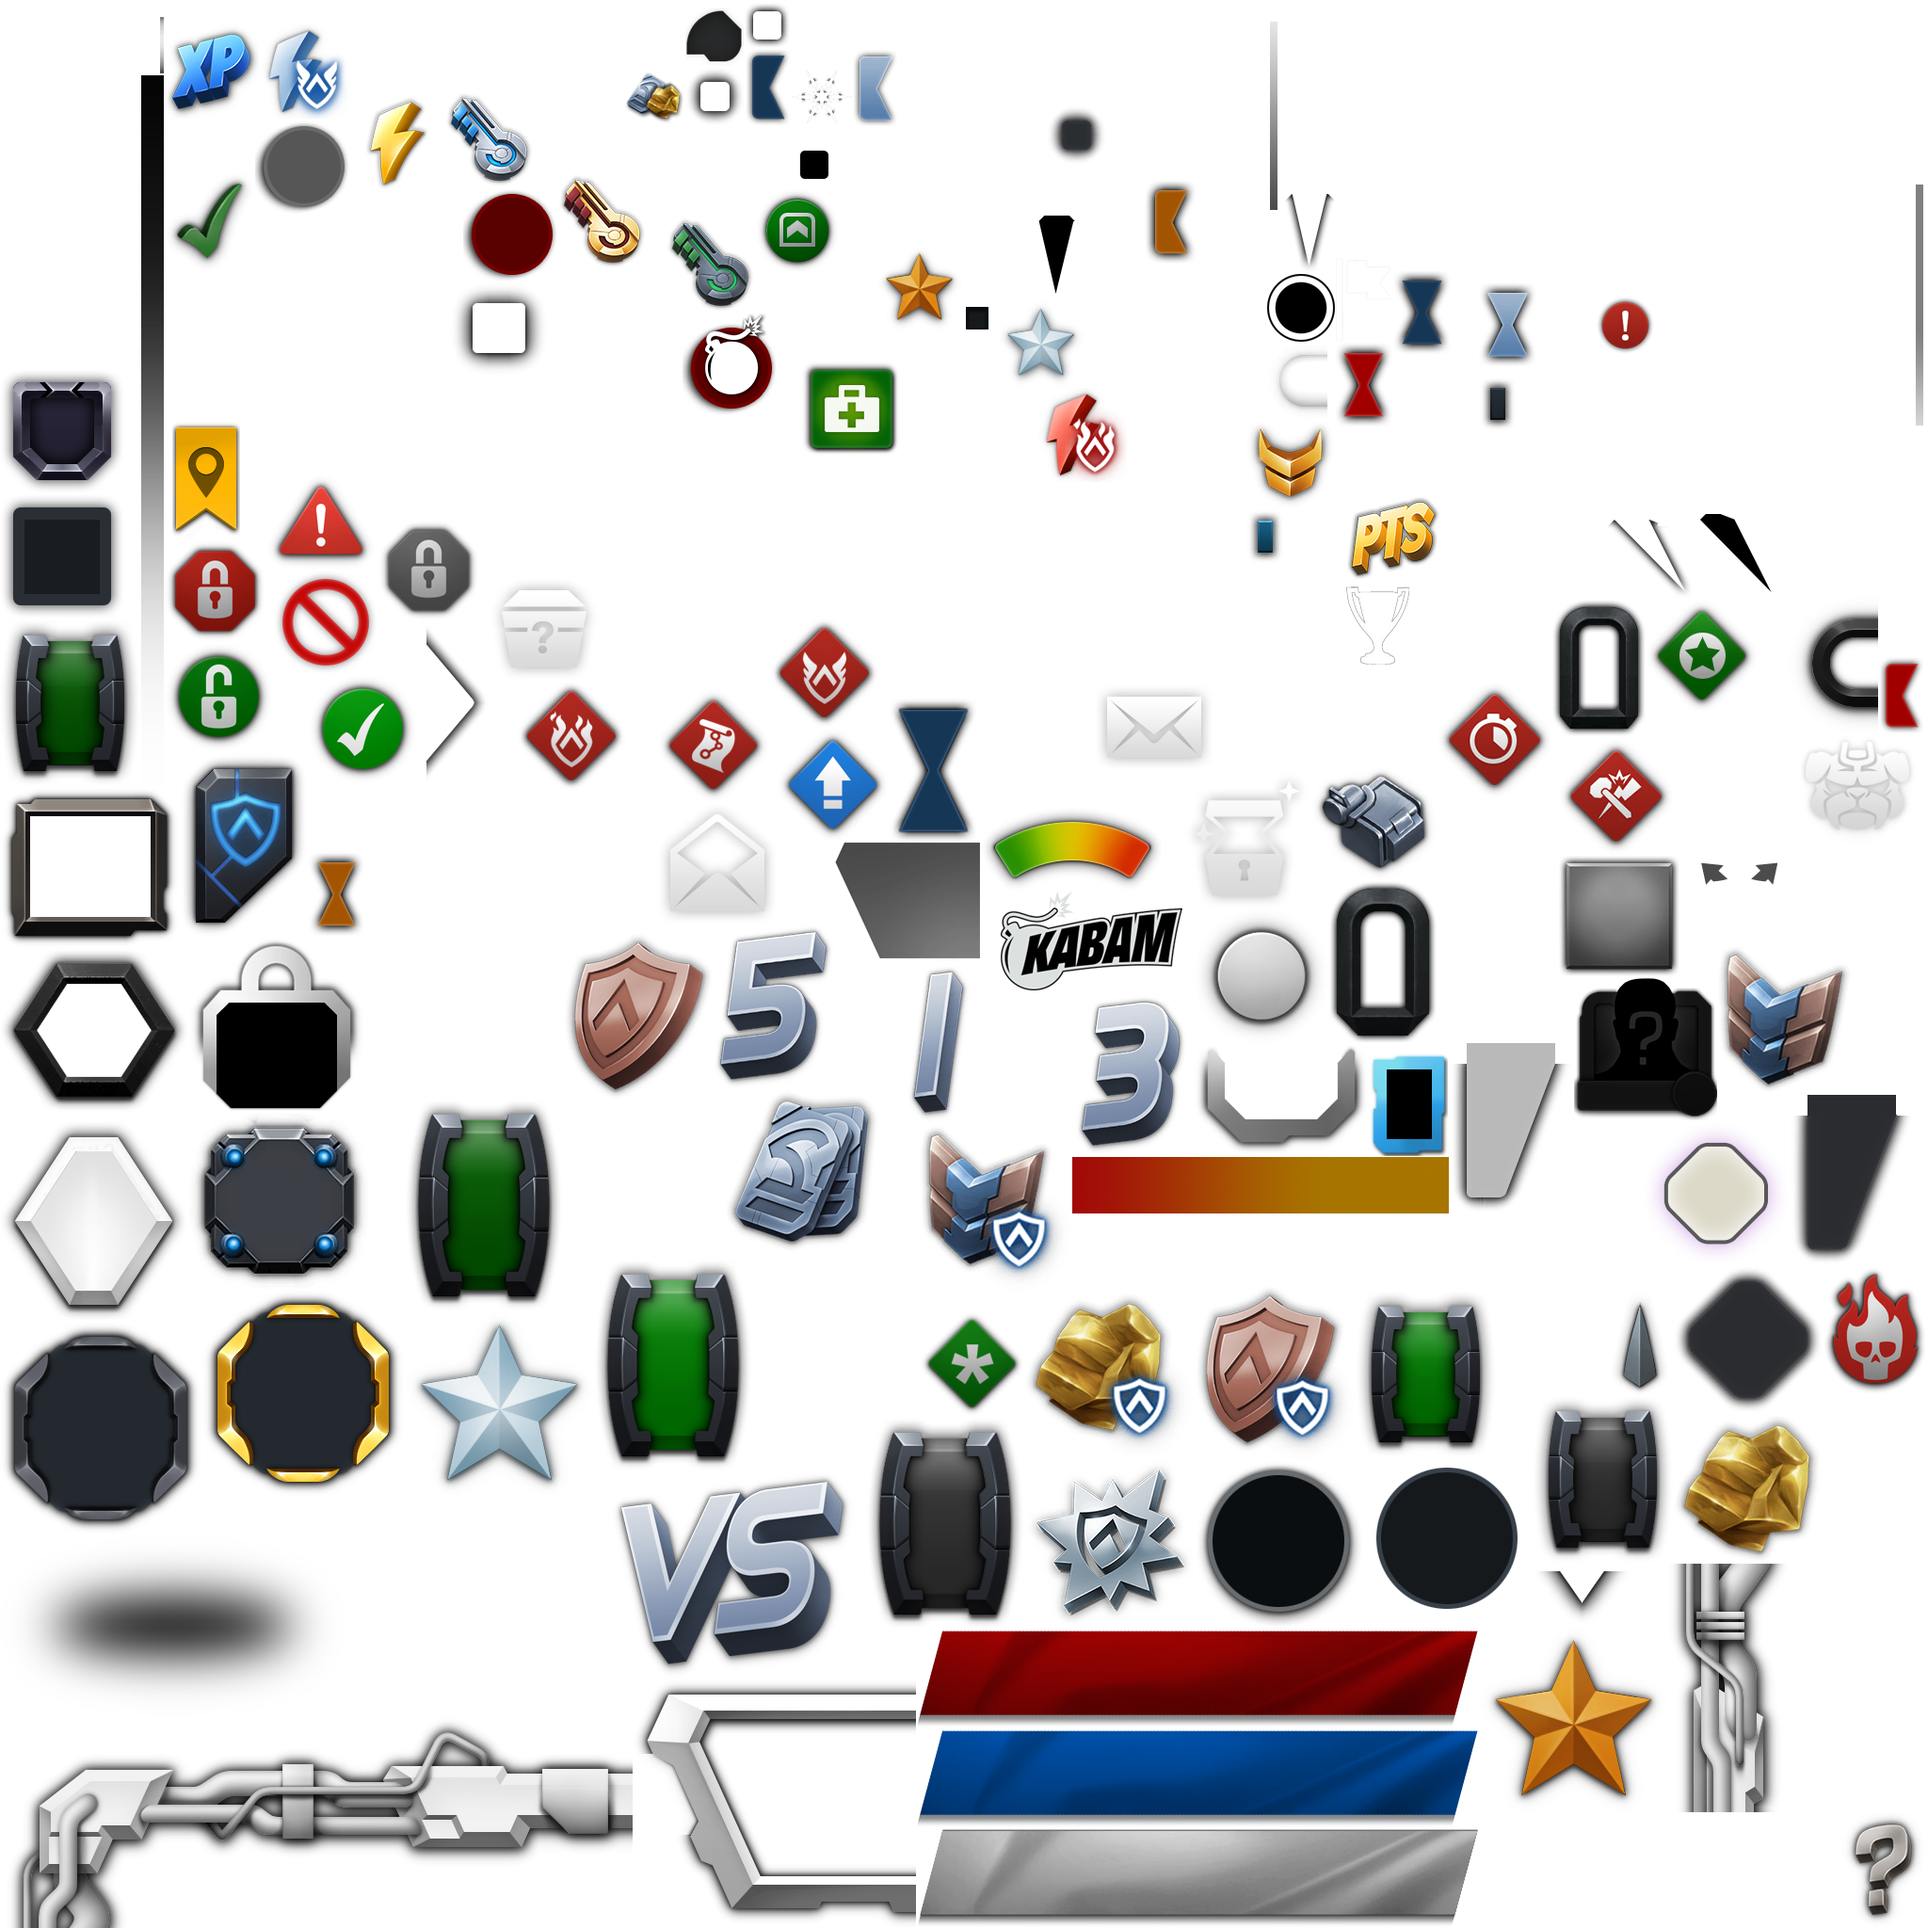
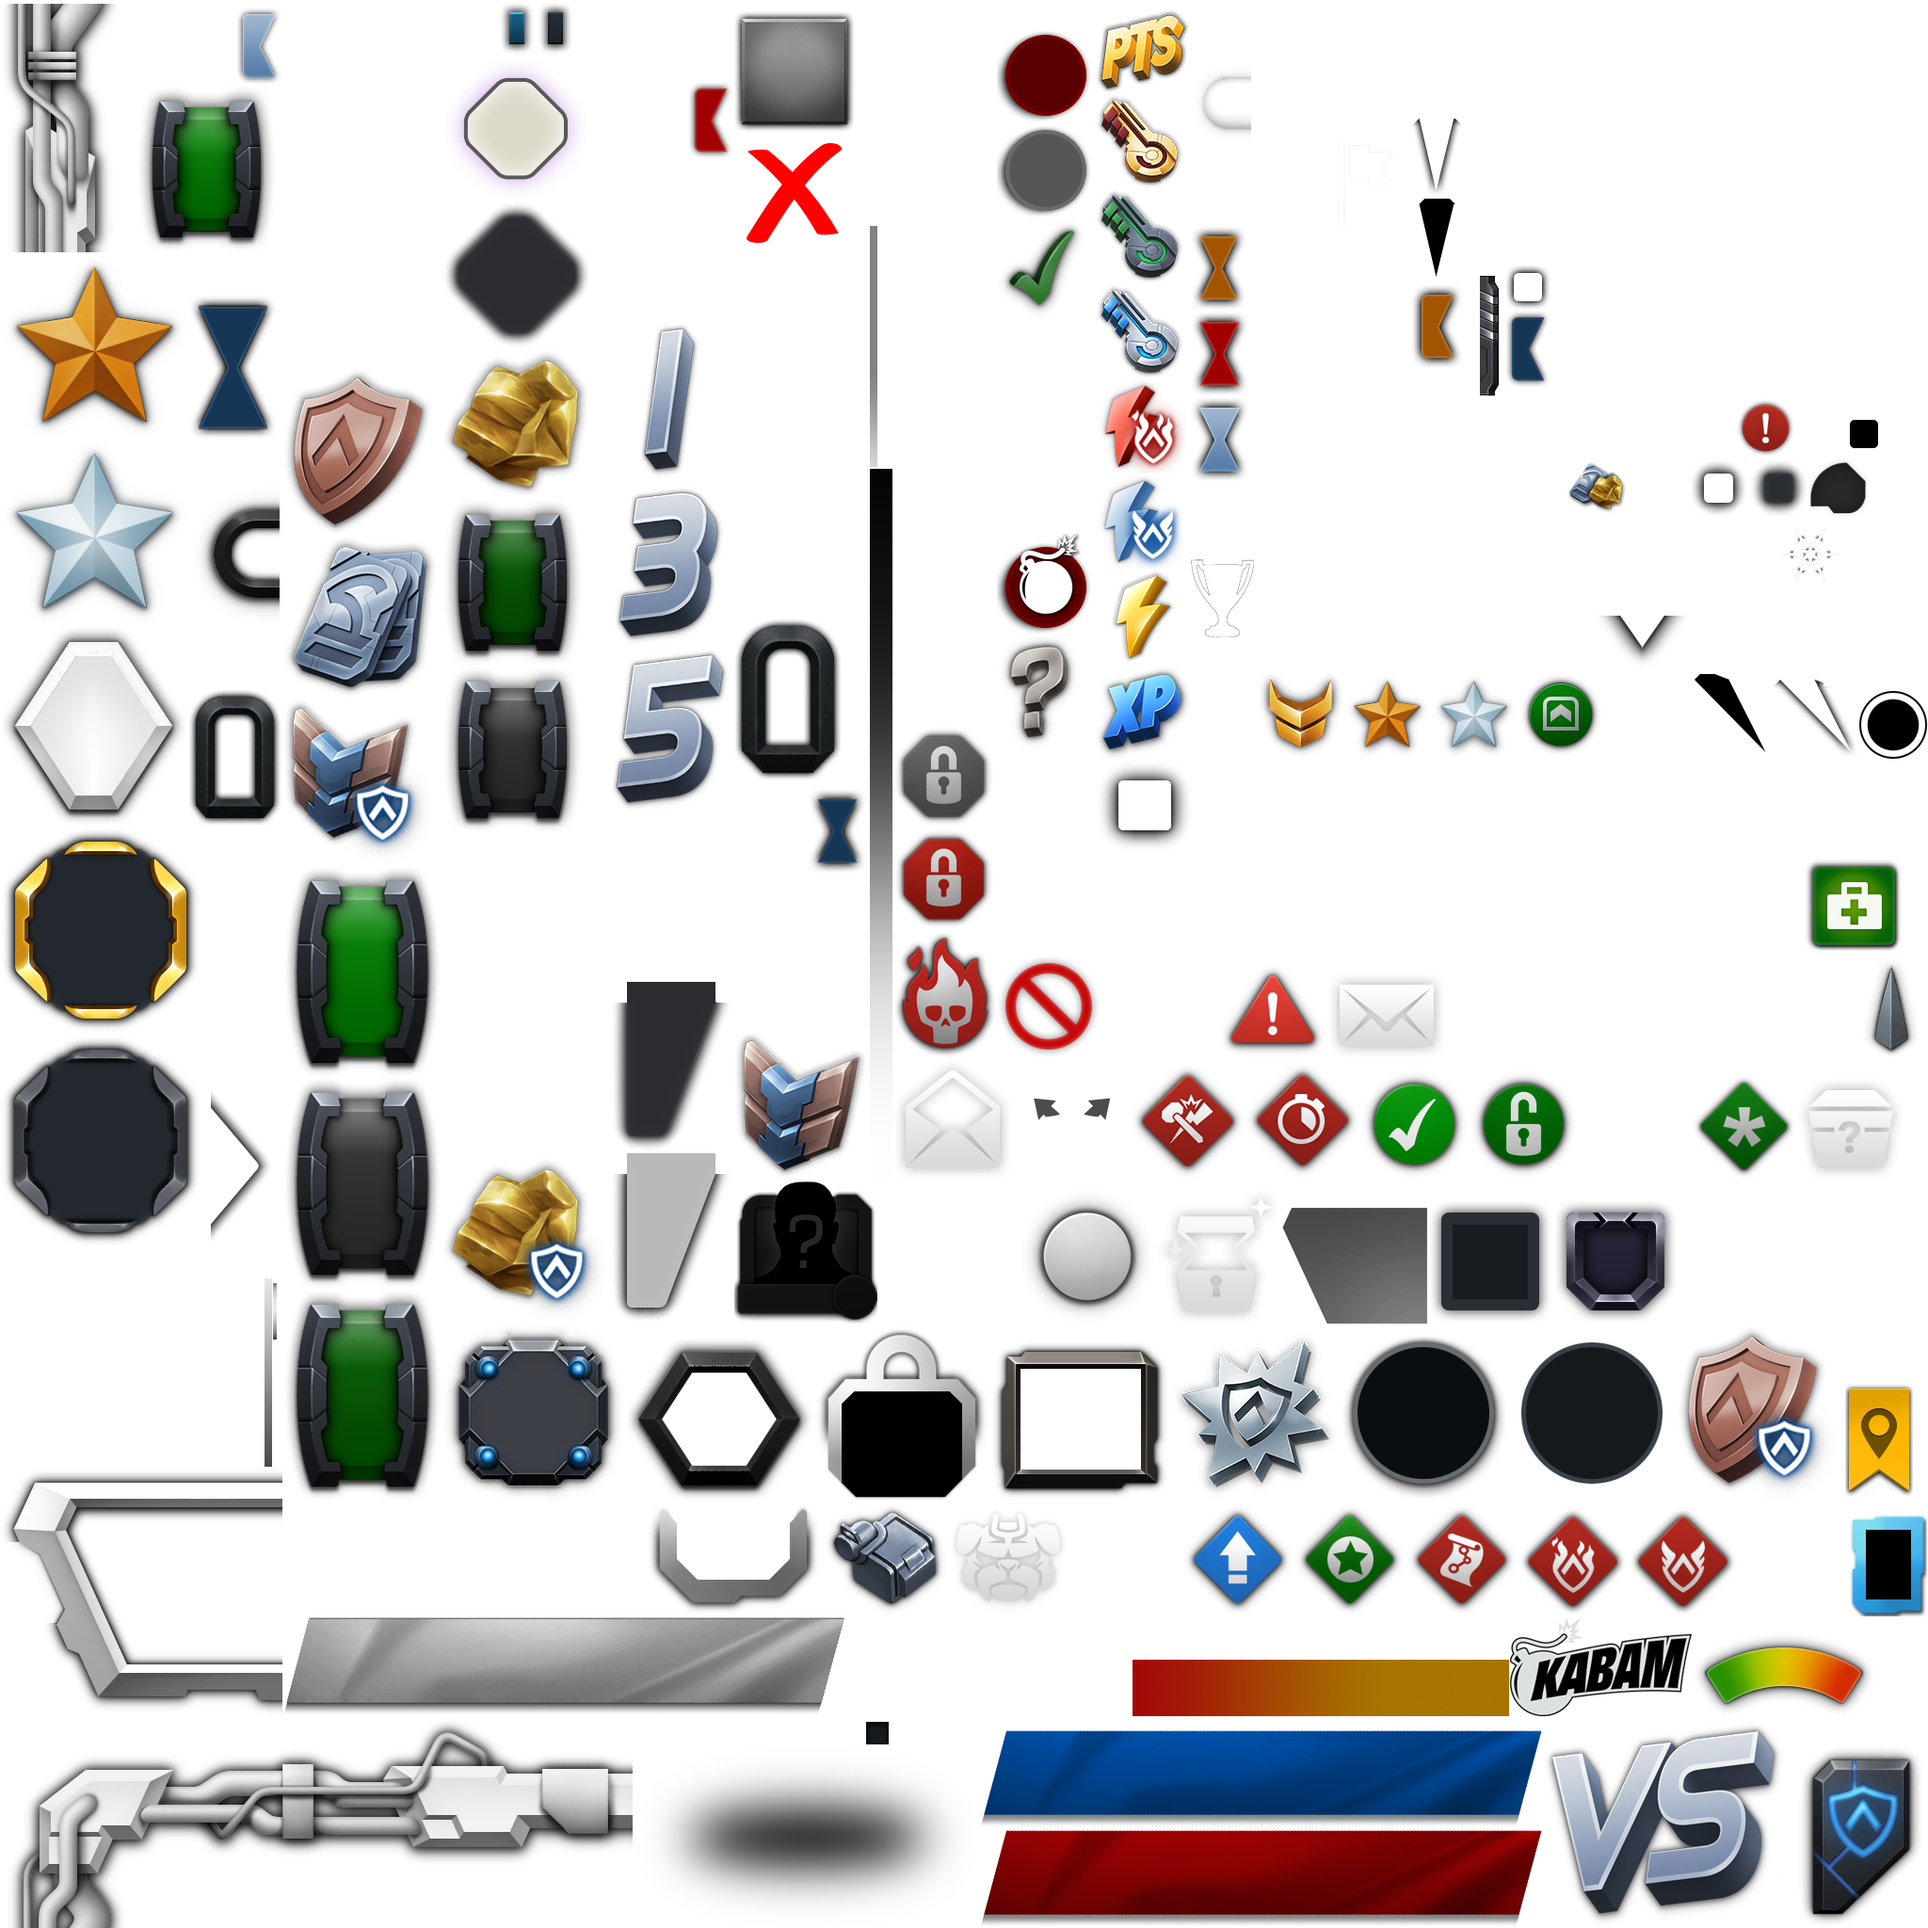
New assets and enable red hulk

diff --git a/src/data/synergies.js b/src/data/synergies.js
@@ -473,6 +473,24 @@ const synergies = [
     { fromId: 'rhino', fromStars: 5, toId: 'abomination', effectId: 'armor', effectAmount: 6 },
     { fromId: 'rhino', fromStars: 5, toId: 'electro', effectId: 'perfectblock', effectAmount: 5 },
 
+    { fromId: 'redhulk', fromStars: 3, toId: 'abomination', effectId: 'critrate', effectAmount: 6 },
+    { fromId: 'redhulk', fromStars: 3, toId: 'hulk', effectId: 'attack', effectAmount: 4 },
+    { fromId: 'redhulk', fromStars: 3, toId: 'x23', effectId: 'perfectblock', effectAmount: 4 },
+    { fromId: 'redhulk', fromStars: 3, toId: 'elektra', effectId: 'thunderbolts', effectAmount: 10 },
+    { fromId: 'redhulk', fromStars: 3, toId: 'agentvenom', effectId: 'thunderbolts', effectAmount: 10 },
+
+    { fromId: 'redhulk', fromStars: 4, toId: 'abomination', effectId: 'critrate', effectAmount: 7 },
+    { fromId: 'redhulk', fromStars: 4, toId: 'hulk', effectId: 'attack', effectAmount: 5 },
+    { fromId: 'redhulk', fromStars: 4, toId: 'x23', effectId: 'perfectblock', effectAmount: 5 },
+    { fromId: 'redhulk', fromStars: 4, toId: 'elektra', effectId: 'thunderbolts', effectAmount: 10 },
+    { fromId: 'redhulk', fromStars: 4, toId: 'agentvenom', effectId: 'thunderbolts', effectAmount: 10 },
+
+    { fromId: 'redhulk', fromStars: 5, toId: 'abomination', effectId: 'critrate', effectAmount: 7 },
+    { fromId: 'redhulk', fromStars: 5, toId: 'hulk', effectId: 'attack', effectAmount: 5 },
+    { fromId: 'redhulk', fromStars: 5, toId: 'x23', effectId: 'perfectblock', effectAmount: 5 },
+    { fromId: 'redhulk', fromStars: 5, toId: 'elektra', effectId: 'thunderbolts', effectAmount: 10 },
+    { fromId: 'redhulk', fromStars: 5, toId: 'agentvenom', effectId: 'thunderbolts', effectAmount: 10 },
+
     { fromId: 'shehulk', fromStars: 3, toId: 'hulk', effectId: 'health', effectAmount: 5 },
     { fromId: 'shehulk', fromStars: 3, toId: 'superiorironman', effectId: 'powergain', effectAmount: 4 },
     { fromId: 'shehulk', fromStars: 3, toId: 'kamalakhan', effectId: 'perfectblock', effectAmount: 4 },

diff --git a/src/data/champions.js b/src/data/champions.js
@@ -7,8 +7,10 @@ import Champion, {
 } from './model/Champion';
 
 const UNRELEASED_CHAMPIONS = {
+    'falcon': true,
+    'blackpanthercivilwar': true,
+    'crossbones': true,
     'redskull': true,
-    'redhulk': true,
     'drstrangemarvelnow': true,
     'maestro': true,
 };
@@ -66,6 +68,10 @@ const champions = [
     { uid: 'venompool', typeId: 'cosmic', stars: 3 },
     { uid: 'venompool', typeId: 'cosmic', stars: 4 },
     { uid: 'venompool', typeId: 'cosmic', stars: 5 },
+
+    { uid: 'falcon', typeId: 'tech', stars: 3 },
+    { uid: 'falcon', typeId: 'tech', stars: 4 },
+    { uid: 'falcon', typeId: 'tech', stars: 5 },
 
     { uid: 'ironman', typeId: 'tech', stars: 1 },
     { uid: 'ironman', typeId: 'tech', stars: 2 },
@@ -162,9 +168,17 @@ const champions = [
     { uid: 'blackpanther', typeId: 'skill', stars: 4 },
     { uid: 'blackpanther', typeId: 'skill', stars: 5 },
 
+    { uid: 'blackpanthercivilwar', typeId: 'skill', stars: 3 },
+    { uid: 'blackpanthercivilwar', typeId: 'skill', stars: 4 },
+    { uid: 'blackpanthercivilwar', typeId: 'skill', stars: 5 },
+
     { uid: 'blackwidow', typeId: 'skill', stars: 2 },
     { uid: 'blackwidow', typeId: 'skill', stars: 3 },
     { uid: 'blackwidow', typeId: 'skill', stars: 4 },
+
+    { uid: 'crossbones', typeId: 'skill', stars: 3 },
+    { uid: 'crossbones', typeId: 'skill', stars: 4 },
+    { uid: 'crossbones', typeId: 'skill', stars: 5 },
 
     { uid: 'daredevil', typeId: 'skill', stars: 3 },
     { uid: 'daredevil', typeId: 'skill', stars: 4 },

diff --git a/src/data/guides.js b/src/data/guides.js
@@ -12,6 +12,7 @@ import kamalakhan from './guide/kamalakhan';
 import lukecage from './guide/lukecage';
 import magnetomarvelnow from './guide/magnetomarvelnow';
 import moonknight from './guide/moonknight';
+import redhulk from './guide/redhulk';
 import shehulk from './guide/shehulk';
 import spidergwen from './guide/spidergwen';
 import spidermanblack from './guide/spidermanblack';
@@ -26,7 +27,7 @@ import warmachine from './guide/warmachine';
 import wolverineoldman from './guide/wolverineoldman';
 import x23 from './guide/x23';
 
-const SPOTLIGHT = 'kamalakhan';
+const SPOTLIGHT = 'redhulk';
 
 const guides = {
     agentvenom,
@@ -43,6 +44,7 @@ const guides = {
     lukecage,
     magnetomarvelnow,
     moonknight,
+    redhulk,
     shehulk,
     spidergwen,
     spidermanblack,
